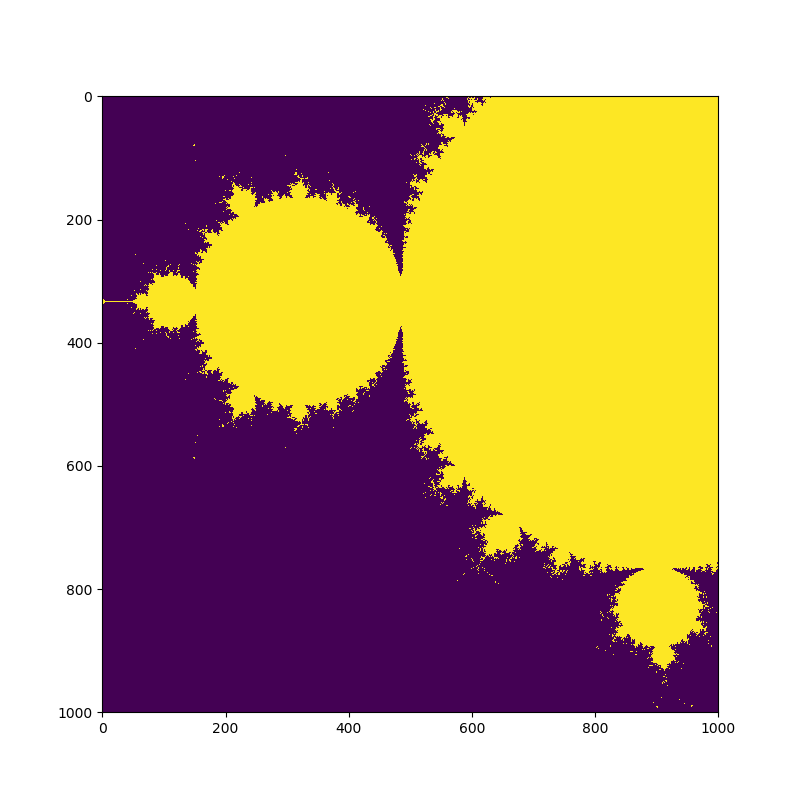
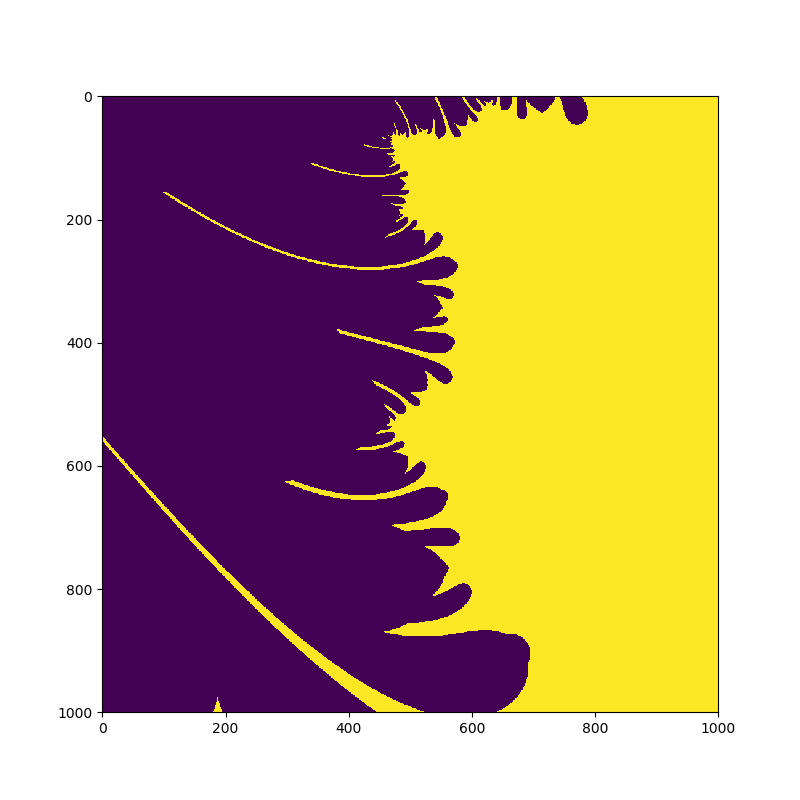
1000x1000x400 process on cpu

diff --git a/mandlebrot.py b/mandlebrot.py
@@ -1,17 +1,21 @@
 import numpy as np
 import matplotlib.pyplot as plt
 import imageio
+import sys
 
 nx, ny = (1000,1000)
 
 iterations = 50
 threshold = 2
 
-file_path = "/Users/alexiev/Documents/dev/github/PythonFractals/mandlebrot/"
+#file_path = "/Users/alexiev/Documents/dev/github/PythonFractals/mandlebrot/"
+file_path = "C:/Users/16479/dev/alex_github/PythonFractals/mandlebrot/"
 
-frames = 100
-initXMin, initXMax, initYMin, initYMax = (-1.48, 0.02, -0.5, 1)
-step = 0.01
+frames = 400
+xOffset = 0.02075047 
+#xMin, xMax, yMin, yMax = (-1.5+xOffset, xOffset, -0.5, 1)
+xMin, xMax, yMin, yMax = (-2.5+xOffset, 1+xOffset, -1.5, 2)
+stepPercent = 0.02
 
 fps = 20
 
@@ -44,7 +48,9 @@ def getMandlebrotSet(xMin, xMax, yMin, yMax):
     return set
 
 def showLoadingBar(percent, total):
-    print("|"+ "#"*int(percent*total) + " "*(total-int(percent*total)) + "|")
+    sys.stdout.write('\r')
+    sys.stdout.flush()
+    sys.stdout.write("|"+ "#"*int(percent*total) + " "*(total-int(percent*total)) + "|")
     
 images = []
 
@@ -58,8 +64,12 @@ def addFrame(frame):
 sets = []
 
 for s in range(frames):
-    steped = step*(s-1)
-    sets.append(getMandlebrotSet(initXMin+steped, initXMax-steped, initYMin+steped, initYMax-steped))
+    step = stepPercent * (xMax - xMin)
+    xMin+=step
+    xMax-=step
+    yMin+=step
+    yMax-=step
+    sets.append(getMandlebrotSet(xMin, xMax, yMin, yMax))
     addFrame(sets[s])
     showLoadingBar(s/frames, 50)
 
